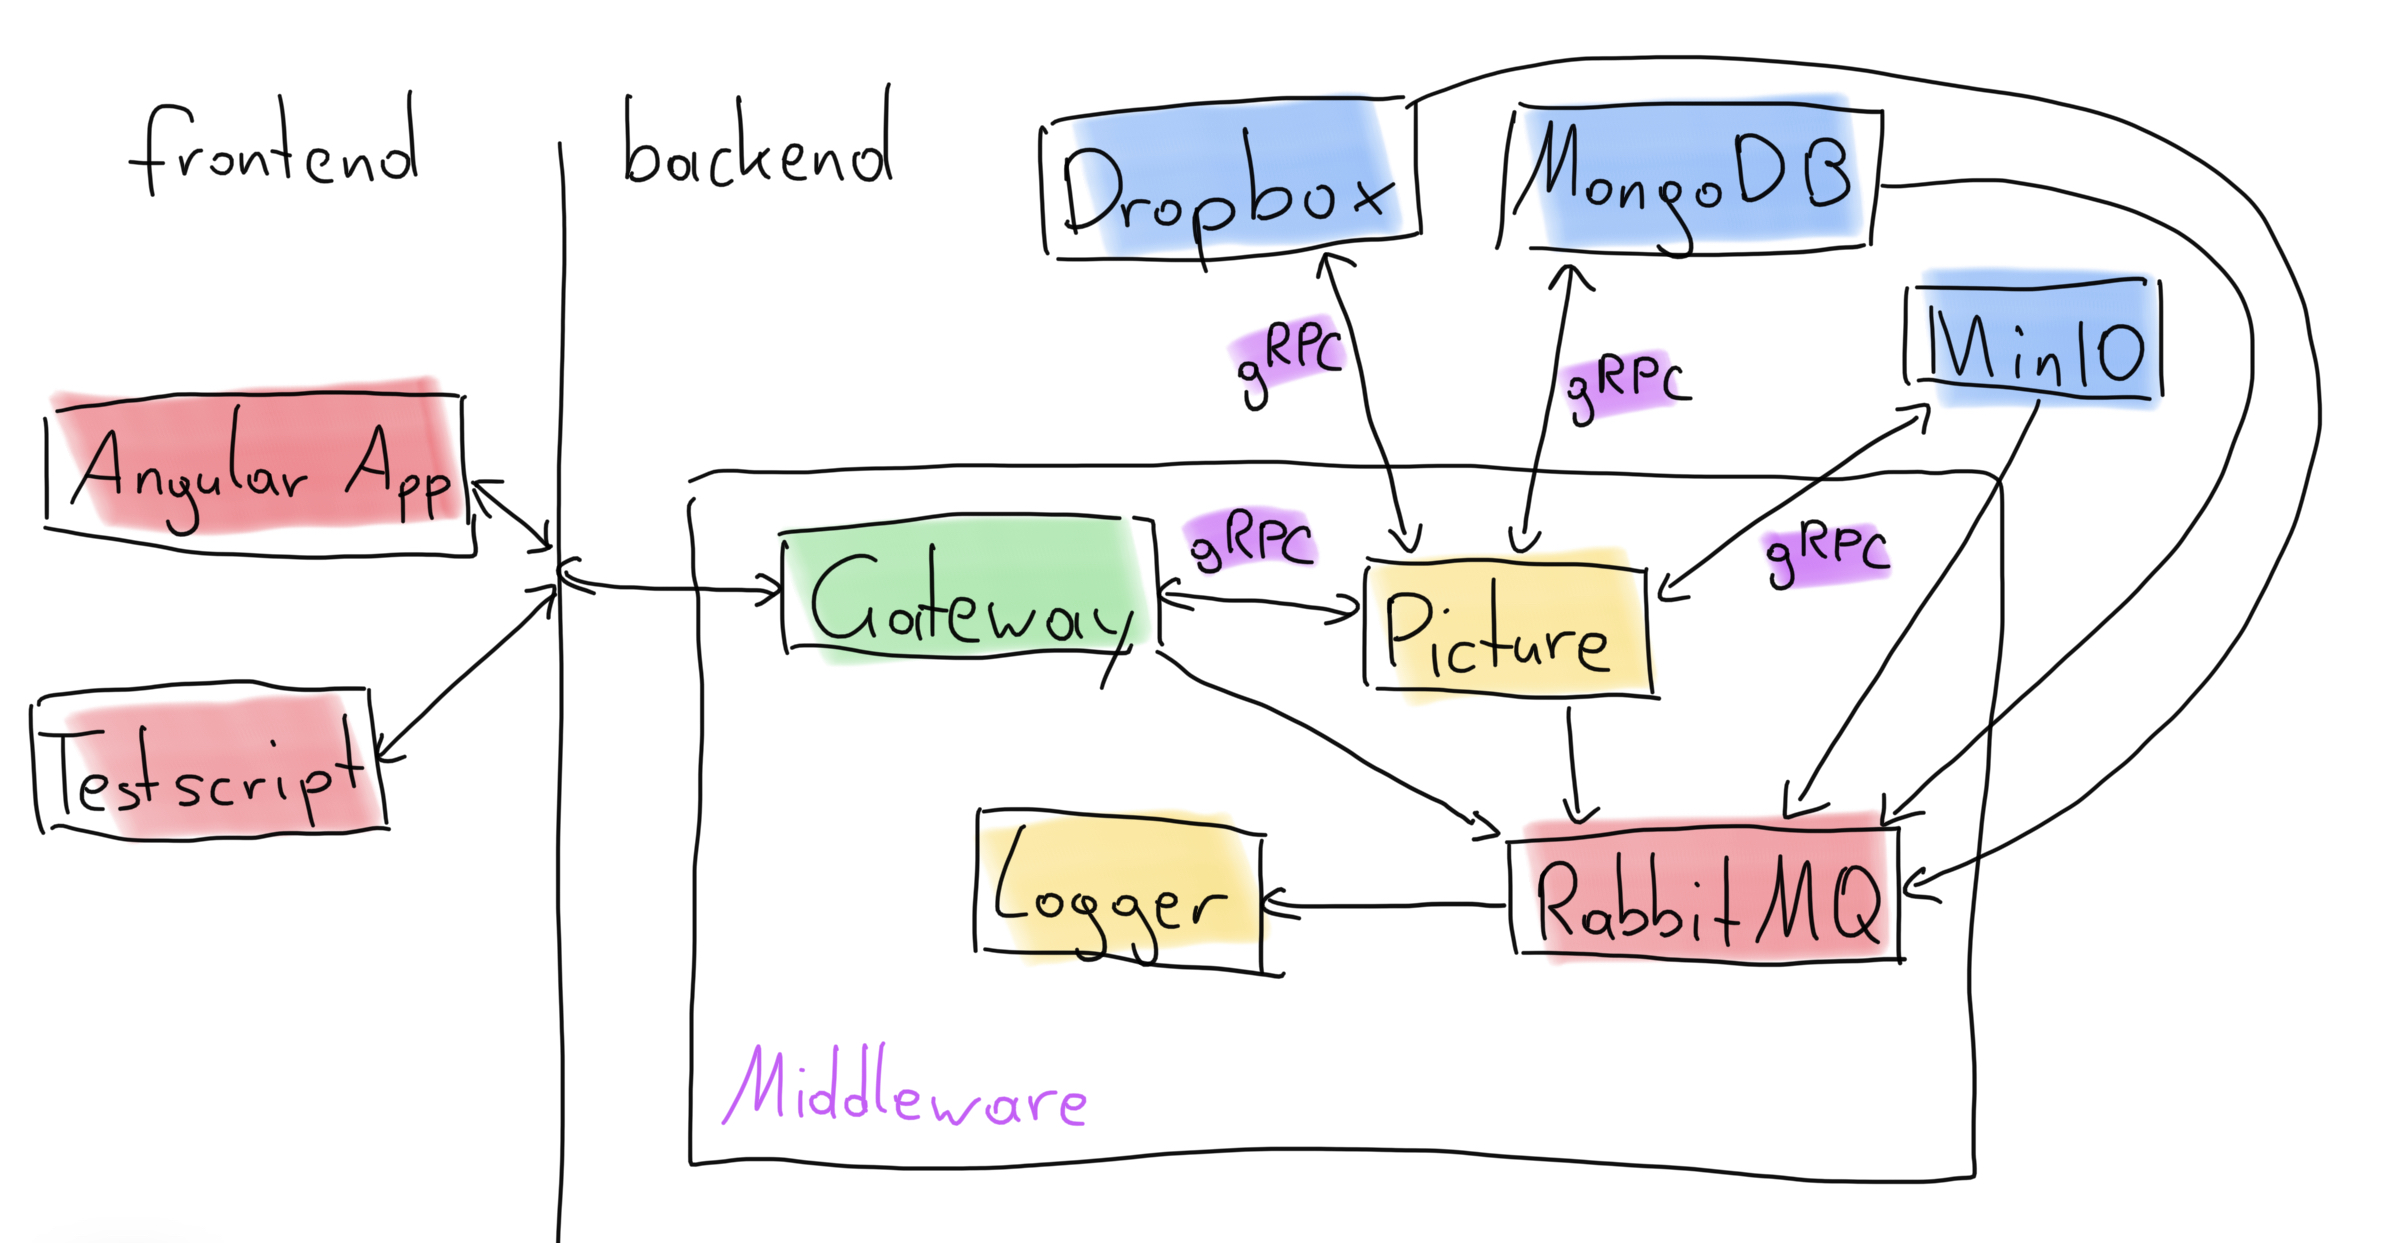
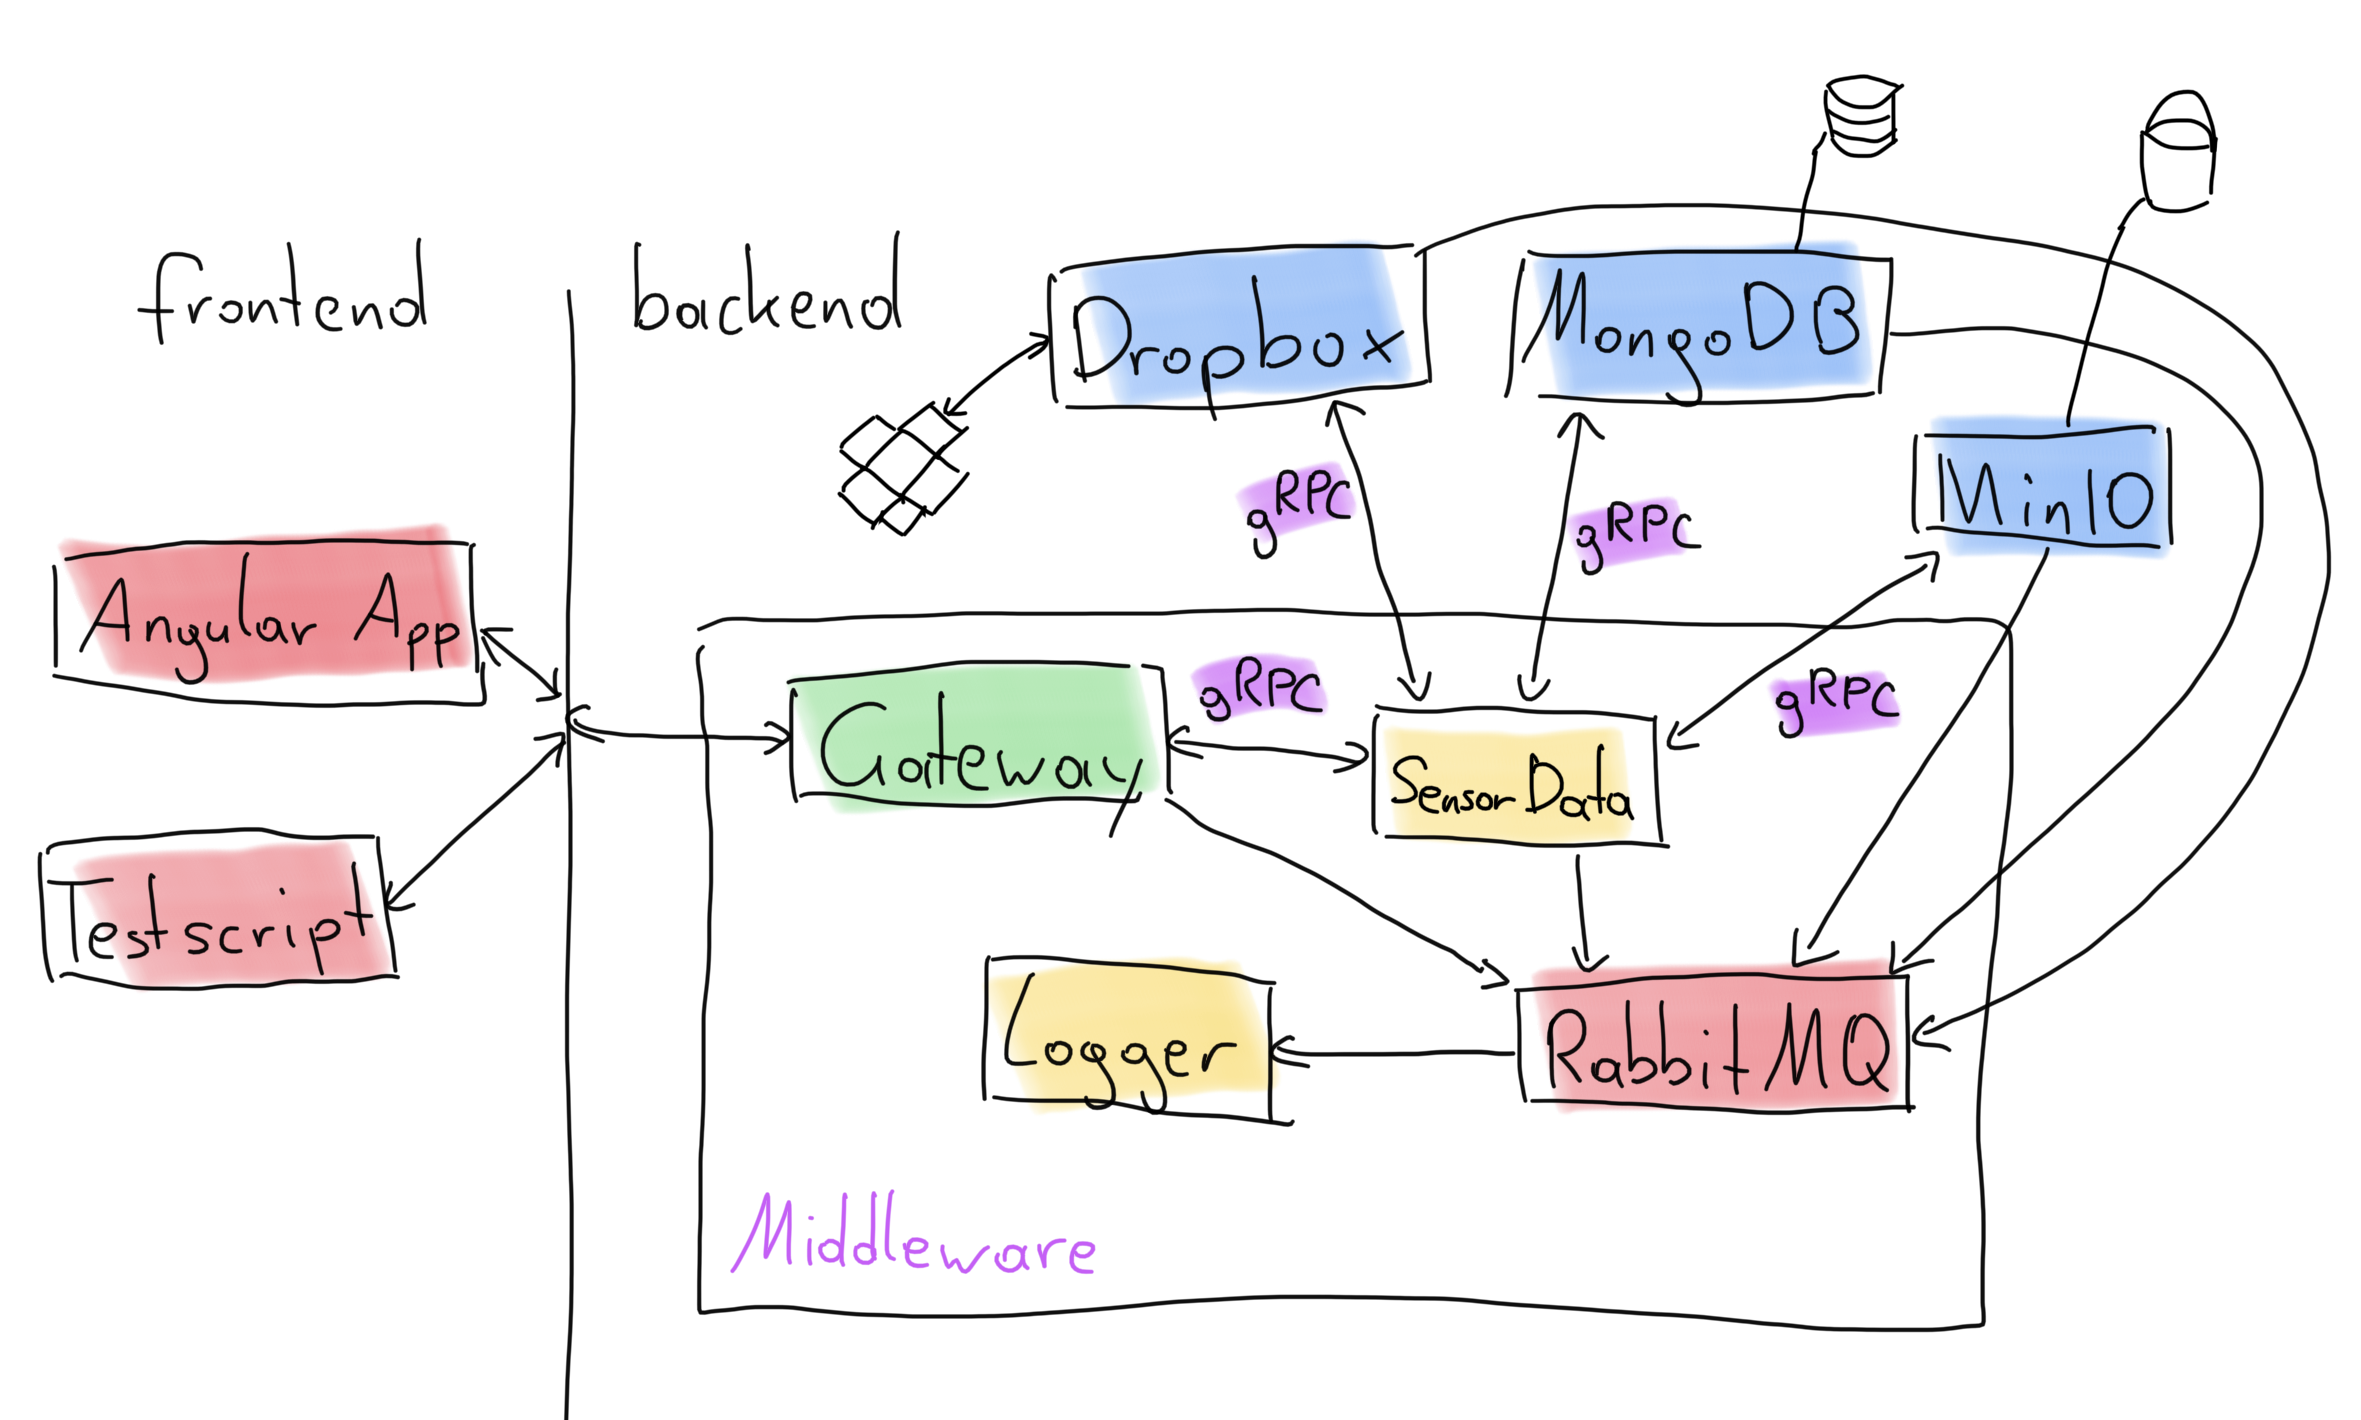
Update architecture and add MongoDB README

diff --git a/README.md b/README.md
@@ -22,8 +22,6 @@ TODO
 
 ![Architecture](./docs/architecture.png)
 
-(This is subject to change in the future!)
-
 ## Components
 
 ### Frontend app
@@ -65,7 +63,7 @@ The Dropbox service is the connection to the Dropbox. It provides the possibilit
 
 #### MongoDB service
 
-TODO
+The MongoDB service is the connection to the MongoDB. It provides the possibility to store and get data from the MongoDB. It saves the metadata of the pictures and the data of the sensors.
 
 #### MinIO service
 
